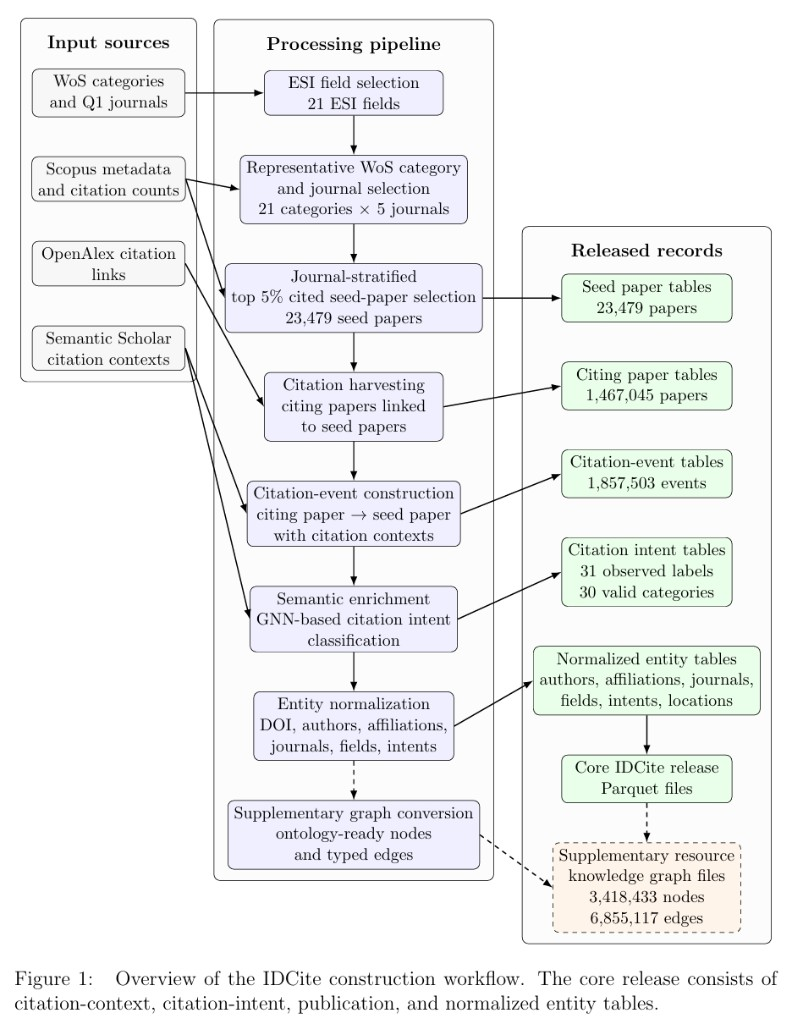
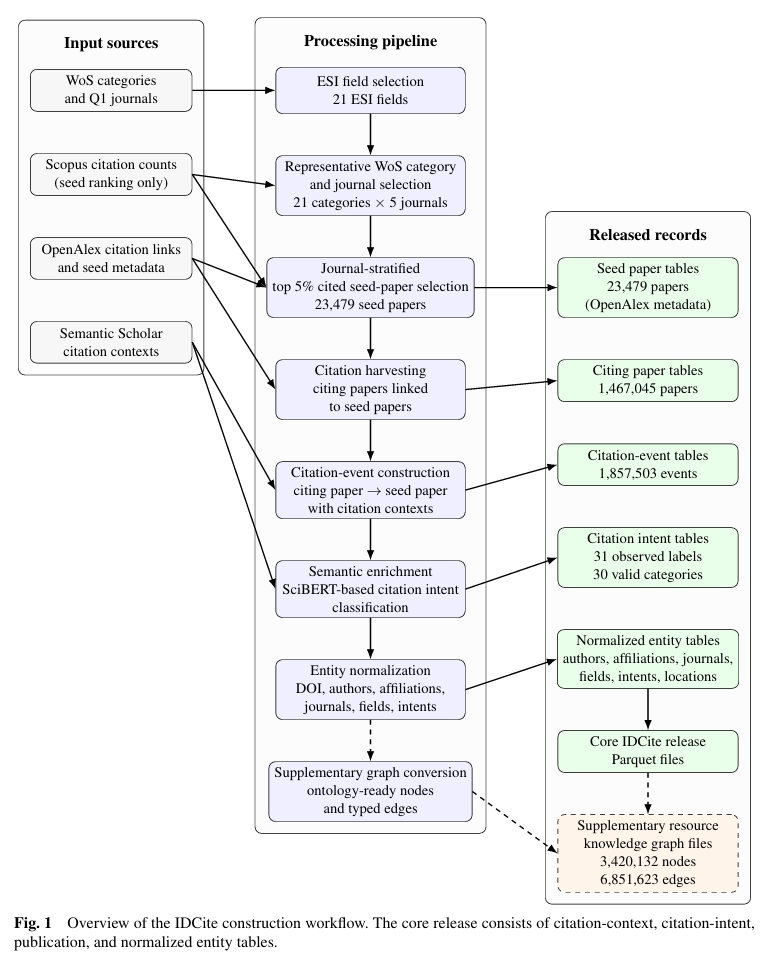
Describe SciBERT intent classifier, add PLOS ONE paper section, remove Hugging Face links
- Replace GNN/SynIntent wording with the SciBERT-based classifier and update the pipeline figure
- Update intent validation note and knowledge-graph counts to match the paper
- Add a Paper section with links to the PLOS ONE article, PDF, and IDCite data
- Remove Hugging Face links from the hero, access cards, footer, and README

Changed region(s): [[0.0, 0.0, 0.9948, 0.9979]]

diff --git a/index.html b/index.html
@@ -9,7 +9,7 @@
 <link rel="preconnect" href="https://fonts.gstatic.com" crossorigin />
 <link href="https://fonts.googleapis.com/css2?family=Inter:wght@400;500;600;700&family=Source+Serif+4:opsz,wght@8..60,400;8..60,600;8..60,700&family=JetBrains+Mono:wght@400;500&display=swap" rel="stylesheet" />
 <script src="https://cdn.jsdelivr.net/npm/chart.js@4.4.1/dist/chart.umd.min.js"></script>
-<link rel="stylesheet" href="assets/style.css?v=footer4" />
+<link rel="stylesheet" href="assets/style.css?v=paper1" />
 </head>
 <body>
 <header class="nav" id="top">
@@ -18,6 +18,7 @@
       <span class="brand-mark">ID</span><span class="brand-text">Cite</span>
     </a>
     <nav class="nav-links">
+      <a href="#paper">Paper</a>
       <a href="#overview">Overview</a>
       <a href="#pipeline">Pipeline</a>
       <a href="#intents">Intents</a>
@@ -42,13 +43,42 @@
         Indicators (ESI) fields, 21 representative Web of Science categories, and 105 Q1 journals. The
         release contains <strong>1,857,503 citation records</strong> linking <strong>1,467,045 citing publications</strong>
         to <strong>23,479 seed papers</strong>, together with citation contexts, intent labels, publication metadata,
-        normalized entities, and an ontology-ready knowledge graph of 3,418,433 nodes and 6,855,117 edges.
+        normalized entities, and an ontology-ready knowledge graph of 3,420,132 nodes and 6,851,623 edges.
       </p>
       <div class="hero-actions">
         <a class="btn btn-primary" href="https://doi.org/10.5281/zenodo.20796923" target="_blank" rel="noopener">Zenodo Record</a>
-        <a class="btn" href="https://huggingface.co/datasets/Daniel0315/IDCite" target="_blank" rel="noopener">Hugging Face</a>
         <a class="btn" href="https://github.com/SeohyunNam/MDCite" target="_blank" rel="noopener">GitHub Code</a>
       </div>
+    </div>
+  </section>
+
+  <!-- PAPER -->
+  <section class="section paper" id="paper">
+    <div class="container paper-inner">
+      <div class="paper-links">
+        <a class="pill" href="https://doi.org/10.1371/journal.pone.0358327" target="_blank" rel="noopener">
+          <svg viewBox="0 0 24 24" aria-hidden="true"><path d="M14 3h7v7h-2V6.4l-9.3 9.3-1.4-1.4L17.6 5H14V3zM5 5h6v2H5v12h12v-6h2v6a2 2 0 0 1-2 2H5a2 2 0 0 1-2-2V7a2 2 0 0 1 2-2z"/></svg>
+          <span>Paper</span>
+        </a>
+        <a class="pill" href="https://journals.plos.org/plosone/article/file?id=10.1371/journal.pone.0358327&amp;type=printable" target="_blank" rel="noopener">
+          <svg viewBox="0 0 24 24" aria-hidden="true"><path d="M6 2h8l6 6v12a2 2 0 0 1-2 2H6a2 2 0 0 1-2-2V4a2 2 0 0 1 2-2zm7 1.5V9h5.5L13 3.5zM8 13v2h8v-2H8zm0 4v2h5v-2H8z"/></svg>
+          <span>PDF</span>
+        </a>
+        <a class="pill" href="https://doi.org/10.5281/zenodo.20796923" target="_blank" rel="noopener">
+          <svg viewBox="0 0 24 24" aria-hidden="true"><path d="M12 2C7 2 3 3.8 3 6v12c0 2.2 4 4 9 4s9-1.8 9-4V6c0-2.2-4-4-9-4zm0 2c4.1 0 7 1.4 7 2s-2.9 2-7 2-7-1.4-7-2 2.9-2 7-2zM5 9.1C6.7 9.7 9.2 10 12 10s5.3-.3 7-.9V12c0 .6-2.9 2-7 2s-7-1.4-7-2V9.1zm0 6C6.7 15.7 9.2 16 12 16s5.3-.3 7-.9V18c0 .6-2.9 2-7 2s-7-1.4-7-2v-2.9z"/></svg>
+          <span>Data (IDCite)</span>
+        </a>
+      </div>
+
+
+      <h3 class="paper-h">Relation to IDCite</h3>
+      <p class="paper-abstract">
+        This paper introduces the SciBERT-based citation-intent classifier used by IDCite. Each citation context is
+        encoded with SciBERT, and the <code>[CLS]</code> representation feeds a multi-label classifier trained with
+        binary cross-entropy (0.5 decision threshold) and fine-tuned on the MultiCite benchmark. IDCite uses this
+        classifier to generate the citation-intent labels for all 1,857,503 citation records.
+      </p>
+
     </div>
   </section>
 
@@ -79,11 +109,11 @@
       </figure>
 
       <div class="sources-row">
-        <span class="src-chip">Scopus <em>metadata</em></span>
+        <span class="src-chip">Scopus <em>citation counts (seed ranking)</em></span>
         <span class="src-chip">WoS / 2024 JCR <em>journal selection</em></span>
-        <span class="src-chip">OpenAlex <em>citation links</em></span>
+        <span class="src-chip">OpenAlex <em>citation links &amp; seed metadata</em></span>
         <span class="src-chip">Semantic Scholar <em>citation contexts</em></span>
-        <span class="src-chip">SynIntent <em>intent classifier (GNN)</em></span>
+        <span class="src-chip">SciBERT <em>citation intent classifier</em></span>
       </div>
 
       <ol class="pipeline">
@@ -91,7 +121,7 @@
         <li><span class="step-n">2</span><div><h4>Seed-paper selection</h4><p>Top 5% most-cited papers retained independently within each journal → 23,479 seed papers.</p></div></li>
         <li><span class="step-n">3</span><div><h4>Citation harvesting</h4><p>OpenAlex citation links connect 1.47M citing papers to the seed corpus.</p></div></li>
         <li><span class="step-n">4</span><div><h4>Citation-event construction</h4><p>Each citing → seed link becomes an event carrying its citation context.</p></div></li>
-        <li><span class="step-n">5</span><div><h4>Semantic enrichment</h4><p>SynIntent (GNN-based) assigns citation intents as weak semantic supervision.</p></div></li>
+        <li><span class="step-n">5</span><div><h4>Semantic enrichment</h4><p>A SciBERT-based classifier fine-tuned on MultiCite (<a href="#paper">Phan et al., 2026</a>) assigns multi-label citation intents.</p></div></li>
         <li><span class="step-n">6</span><div><h4>Entity normalization</h4><p>DOIs, authors, affiliations, journals, fields, and intents are normalized.</p></div></li>
       </ol>
     </div>
@@ -117,7 +147,7 @@
               <tr><td><span class="dot i6"></span>extends</td><td class="num">2,813</td><td class="num">0.15</td></tr>
             </tbody>
           </table>
-          <p class="note">Intent labels are model-generated (SynIntent, Strict Acc. 0.67 / Weak Acc. 0.80 on MultiCite) and released as weak supervision — not manually curated gold labels.</p>
+          <p class="note">Intent labels are model-generated by a SciBERT-based classifier (Strict 0.66 / Weak 0.79 on MultiCite). A human evaluation of 4,184 citation contexts gave 69.93% strict and 88.10% weak agreement (micro-F1 0.8122, macro-F1 0.8140). Labels are not manually curated gold labels.</p>
         </div>
       </div>
     </div>
@@ -166,11 +196,6 @@
           <p>Official archived release of the Parquet dataset files.</p>
           <span class="access-link">10.5281/zenodo.20796923 →</span>
         </a>
-        <a class="access-card" href="https://huggingface.co/datasets/Daniel0315/IDCite" target="_blank" rel="noopener">
-          <h4>Hugging Face</h4>
-          <p>Processed dataset mirror for direct loading with Arrow-compatible tools.</p>
-          <span class="access-link">datasets/Daniel0315/IDCite →</span>
-        </a>
         <a class="access-card" href="https://github.com/SeohyunNam/MDCite" target="_blank" rel="noopener">
           <h4>Dataset Construction pipeline</h4>
           <p>Python workflows for collection, harvesting, annotation, and validation.</p>
@@ -188,7 +213,7 @@
       <div class="cite-block">
         <div class="cite-head">
           <h4>Cite this dataset</h4>
-          <button id="copyCite" class="copy-btn" type="button">Copy BibTeX</button>
+          <button id="copyCite" class="copy-btn" type="button" data-copy="bibtex">Copy BibTeX</button>
         </div>
 <pre id="bibtex">@dataset{idcite2026,
   title     = {IDCite: A Large-Scale Multidisciplinary Citation Intent Dataset for Scholarly Knowledge Discovery},
@@ -230,9 +255,7 @@
     <div class="footer-cols">
       <div>
         <h5>Data</h5>
-        <a href="https://doi.org/10.5281/zenodo.20796923" target="_blank" rel="noopener">Zenodo</a>
-        <a href="https://huggingface.co/datasets/Daniel0315/IDCite" target="_blank" rel="noopener">Hugging Face</a>
-      </div>
+        <a href="https://doi.org/10.5281/zenodo.20796923" target="_blank" rel="noopener">Zenodo</a>      </div>
       <div>
         <h5>Code</h5>
         <a href="https://github.com/SeohyunNam/MDCite" target="_blank" rel="noopener">Pipeline</a>

diff --git a/assets/style.css b/assets/style.css
@@ -106,6 +106,17 @@ h1, h2, h3, h4, h5 { font-family: var(--serif); color: var(--ink); font-weight: 
 .value-card h3 { margin: 0 0 8px; font-size: 18px; }
 .value-card p { margin: 0; color: var(--muted); font-size: 14.5px; }
 
+/* PAPER (project-page style) */
+.paper { border-bottom: 1px solid var(--border); }
+.paper-inner { max-width: 860px; text-align: center; }
+.paper-links { display: flex; justify-content: center; flex-wrap: wrap; gap: 10px; margin: 0 0 8px; }
+.pill { display: inline-flex; align-items: center; gap: 8px; padding: 9px 20px; border-radius: 999px; background: #363636; color: #fff; font-weight: 500; font-size: 15px; transition: background 0.15s; }
+.pill:hover { background: #1f1f1f; color: #fff; text-decoration: none; }
+.pill svg { width: 17px; height: 17px; fill: currentColor; }
+.paper-h { font-size: 26px; margin: 46px 0 14px; }
+.paper-abstract { text-align: justify; font-size: 16px; line-height: 1.7; margin: 0; color: var(--text); }
+.paper-abstract code { font-family: var(--mono); font-size: 13.5px; background: var(--surface-2); padding: 1px 5px; border-radius: 4px; }
+
 /* SOURCES / PIPELINE */
 .pipeline-figure { margin: 0 0 36px; padding: 24px; background: var(--surface); border: 1px solid var(--border); border-radius: var(--radius); text-align: center; }
 .pipeline-figure img { max-width: 620px; width: 100%; height: auto; }
@@ -150,7 +161,7 @@ h1, h2, h3, h4, h5 { font-family: var(--serif); color: var(--ink); font-weight: 
 .mapping .table-wrap { margin-top: 12px; }
 
 /* ACCESS */
-.access-grid { display: grid; grid-template-columns: repeat(2, 1fr); gap: 16px; margin-bottom: 40px; }
+.access-grid { display: grid; grid-template-columns: repeat(3, 1fr); gap: 16px; margin-bottom: 40px; }
 .access-card { background: var(--surface); border: 1px solid var(--border); border-radius: var(--radius); padding: 24px; transition: border-color 0.15s; }
 .access-card:hover { border-color: var(--primary); text-decoration: none; }
 .access-card h4 { margin: 0 0 8px; font-size: 17px; }
@@ -201,4 +212,5 @@ h1, h2, h3, h4, h5 { font-family: var(--serif); color: var(--ink); font-weight: 
   .stat-grid, .value-grid { grid-template-columns: 1fr; }
   .section { padding: 48px 0; }
   .hero { padding: 60px 0 48px; }
+  .paper-abstract { text-align: left; }
 }

diff --git a/assets/main.js b/assets/main.js
@@ -180,14 +180,15 @@
 
   /* ---------- Copy BibTeX ---------- */
   function copyCite() {
-    var btn = document.getElementById("copyCite");
-    var pre = document.getElementById("bibtex");
-    if (!btn || !pre) return;
-    btn.addEventListener("click", function () {
-      navigator.clipboard.writeText(pre.textContent).then(function () {
-        var original = btn.textContent;
-        btn.textContent = "Copied";
-        setTimeout(function () { btn.textContent = original; }, 1600);
+    document.querySelectorAll("[data-copy]").forEach(function (btn) {
+      var pre = document.getElementById(btn.getAttribute("data-copy"));
+      if (!pre) return;
+      btn.addEventListener("click", function () {
+        navigator.clipboard.writeText(pre.textContent).then(function () {
+          var original = btn.textContent;
+          btn.textContent = "Copied";
+          setTimeout(function () { btn.textContent = original; }, 1600);
+        });
       });
     });
   }

diff --git a/README.md b/README.md
@@ -12,7 +12,11 @@ Project Page for **IDCite: A Large-Scale Multidisciplinary Citation Intent Datas
 
 ## Abstract
 
-IDCite is a large-scale resource for citation-level analysis across multiple scientific disciplines. Seed publications were selected through a journal-stratified procedure covering 21 Essential Science Indicators (ESI) fields, 21 representative Web of Science categories, and 105 Q1 journals. The release contains 1,857,503 citation records linking 1,467,045 citing publications to 23,479 seed papers, together with citation contexts, citation-intent labels, publication metadata, normalized scholarly entities, and an ontology-ready knowledge graph of 3,418,433 nodes and 6,855,117 edges.
+IDCite is a large-scale resource for citation-level analysis across multiple scientific disciplines. Seed publications were selected through a journal-stratified procedure covering 21 Essential Science Indicators (ESI) fields, 21 representative Web of Science categories, and 105 Q1 journals. The release contains 1,857,503 citation records linking 1,467,045 citing publications to 23,479 seed papers, together with citation contexts, citation-intent labels, publication metadata, normalized scholarly entities, and an ontology-ready knowledge graph of 3,420,132 nodes and 6,851,623 edges. Citation intents are generated by a SciBERT-based classifier fine-tuned on MultiCite.
+
+## Related Paper
+
+Phan, T. A., Nam, S., & Jung, J. J. (2026). A data-driven comparative analysis on citation intents across scientific disciplines. *PLOS ONE*, 21(9), e0358327. https://doi.org/10.1371/journal.pone.0358327
 
 | Measure | Value |
 |---|---|
@@ -26,7 +30,6 @@ IDCite is a large-scale resource for citation-level analysis across multiple sci
 ## Public Access
 
 - **Zenodo Record (Version 3):** https://doi.org/10.5281/zenodo.20796923
-- **Hugging Face:** https://huggingface.co/datasets/Daniel0315/IDCite
 - **Dataset construction pipeline (code):** https://github.com/SeohyunNam/MDCite
 - **CitationHub (interactive platform):** https://citation-hub-website.vercel.app
 - **CitationHub (public documentation):** https://github.com/SeohyunNam/CitationHub-System
